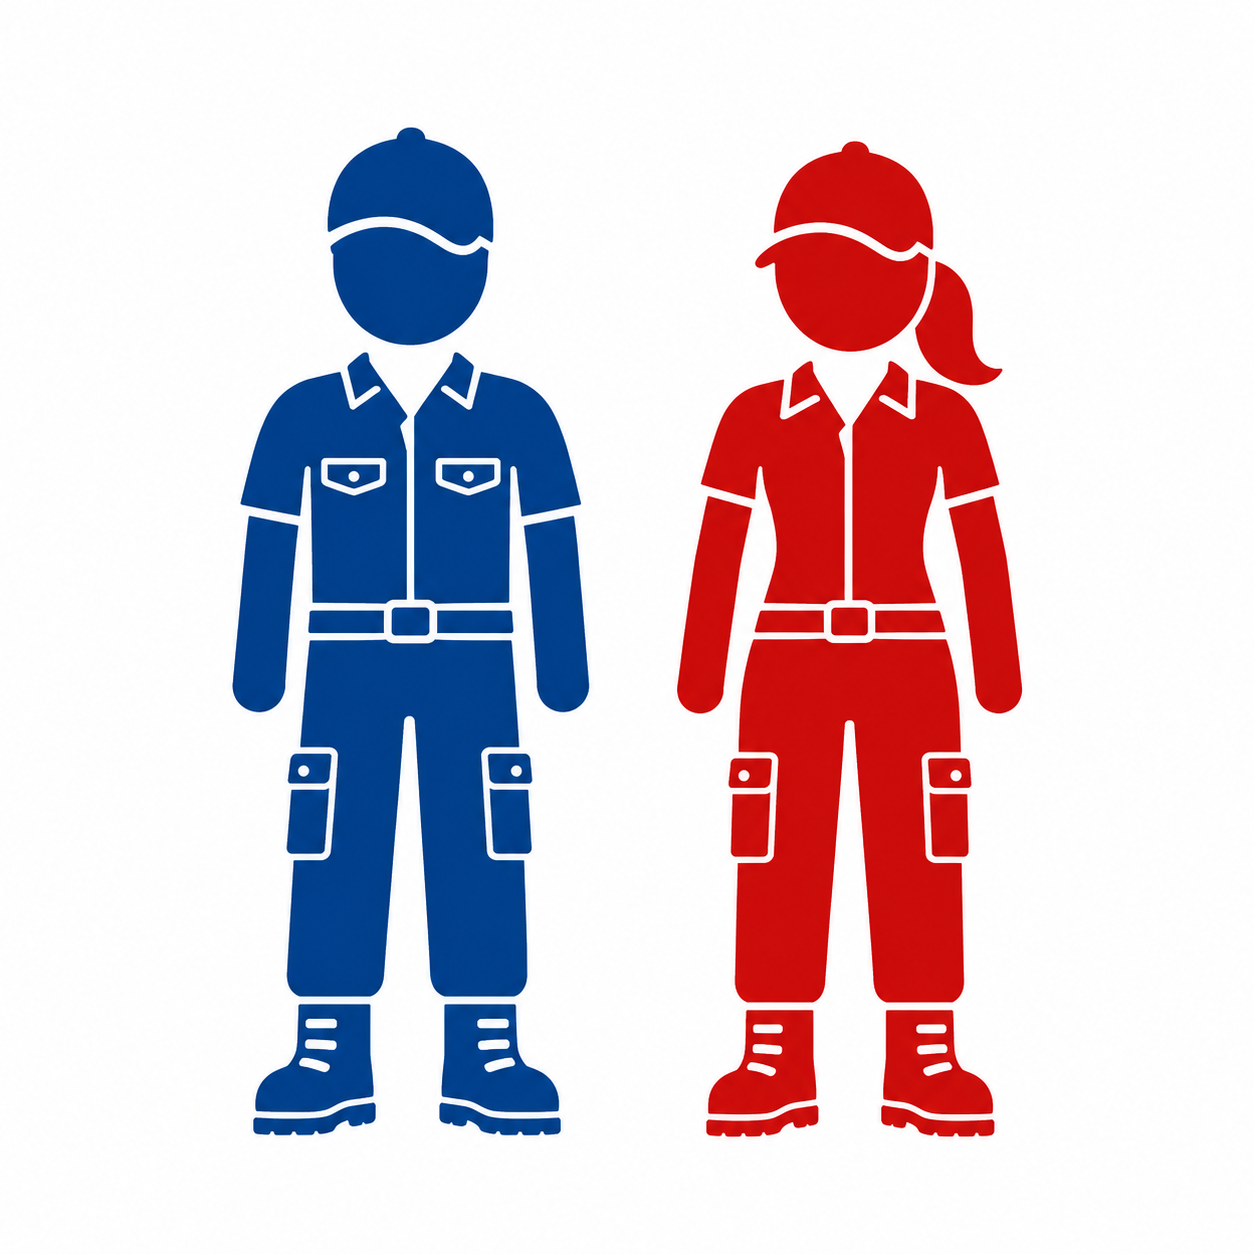
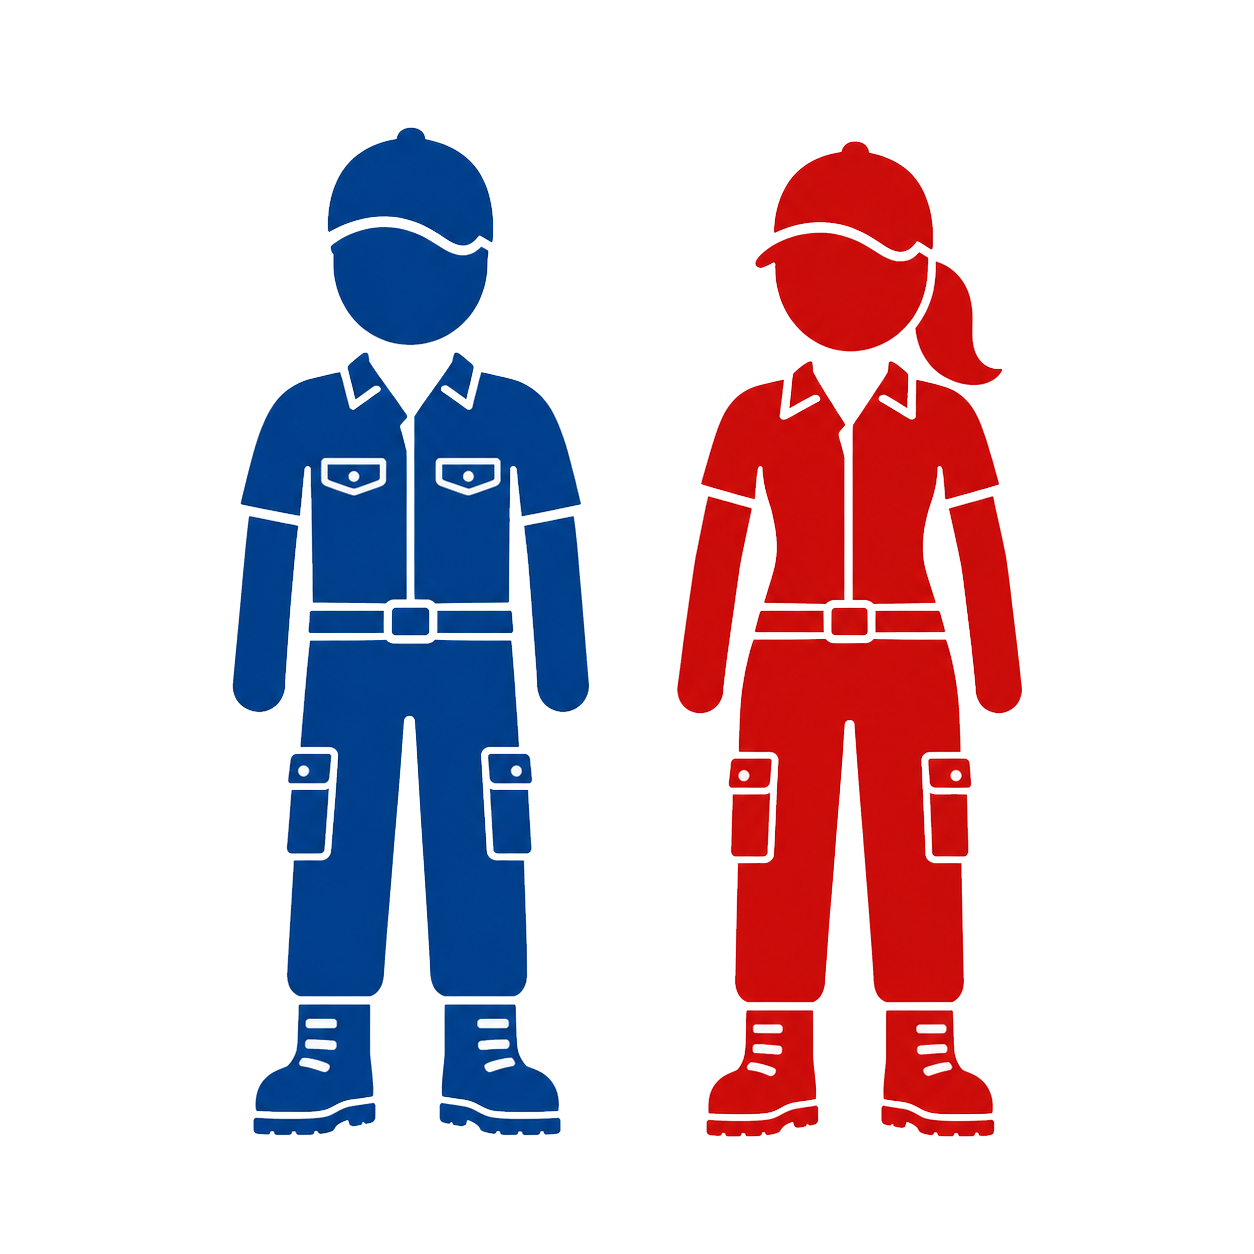
fix block22

Changed region(s): [[0.622, 0.8708, 0.6531, 0.9019], [0.5909, 0.622, 0.622, 0.6531]]

diff --git a/src/app/(dashboard)/list/students/[id]/page.tsx b/src/app/(dashboard)/list/students/[id]/page.tsx
@@ -78,7 +78,7 @@ const SingleStudentPage = async ({
   return (
     <div className="flex-1 p-4 flex flex-col gap-4 xl:flex-row">
       <div className="w-full xl:w-2/3">
-        <div className="flex flex-col lg:flex-row gap-4">
+        <div className="flex flex-col gap-4 2xl:flex-row">
           <ProfileInfoCard
             id={student.id}
             type="student"

diff --git a/src/app/(dashboard)/list/teachers/[id]/page.tsx b/src/app/(dashboard)/list/teachers/[id]/page.tsx
@@ -109,7 +109,7 @@ const SingleTeacherPage = async ({
   return (
     <div className="flex-1 p-4 flex flex-col gap-4 xl:flex-row">
       <div className="w-full xl:w-2/3">
-        <div className="flex flex-col lg:flex-row gap-4">
+        <div className="flex flex-col gap-4 2xl:flex-row">
           <ProfileInfoCard
             id={teacher.id}
             type="teacher"

diff --git a/src/app/(dashboard)/student/page.tsx b/src/app/(dashboard)/student/page.tsx
@@ -68,7 +68,7 @@ const StudentPage = async ({
   return (
     <div className="flex flex-1 flex-col gap-4 p-4 xl:flex-row">
       <div className="w-full xl:w-2/3">
-        <div className="flex flex-col gap-4 lg:flex-row">
+        <div className="flex flex-col gap-4 2xl:flex-row">
           <ProfileInfoCard
             id={student.id}
             type="student"

diff --git a/src/app/(dashboard)/teacher/page.tsx b/src/app/(dashboard)/teacher/page.tsx
@@ -102,7 +102,7 @@ const TeacherPage = async ({
   return (
     <div className="flex flex-1 flex-col gap-4 p-4 xl:flex-row">
       <div className="w-full xl:w-2/3">
-        <div className="flex flex-col gap-4 lg:flex-row">
+        <div className="flex flex-col gap-4 2xl:flex-row">
           <ProfileInfoCard
             id={teacher.id}
             type="teacher"